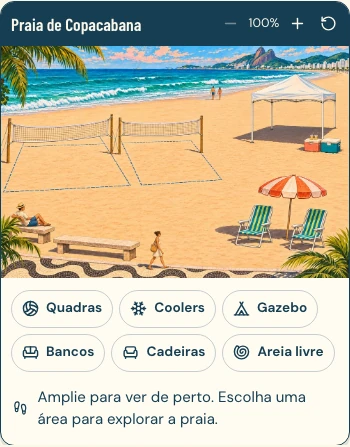
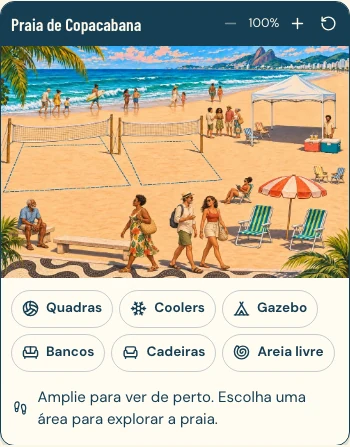
Populate the Copacabana sticker playground
Add beachgoers and folding chairs, correct the seated pose and foreground scale, and depict a wider range of ages, skin tones, hair textures, and builds.

Move suggested sticker spots away from the new artwork while preserving saved placements. Refresh the desktop and mobile screenshots.

diff --git a/lib/beach.ts b/lib/beach.ts
@@ -59,14 +59,14 @@ export const zones = {
     regions: [
       path([1109, 400], [1195, 349], [1474, 356], [1418, 431], [1108, 438]),
     ],
-    anchors: path([1160, 403], [1251, 383], [1354, 376], [1304, 425]),
+    anchors: path([1204, 432], [1251, 383], [1354, 376], [1304, 425]),
   },
   torcida: {
     name: "Bancos",
     line: "Vale gritar ponto até quando a bola cai fora!",
     width: 0.083,
     regions: [path([228, 832], [613, 856], [601, 949], [229, 919])],
-    anchors: path([413, 856], [544, 868], [295, 850]),
+    anchors: path([413, 856], [504, 866], [295, 850]),
   },
   cadeiras: {
     name: "Cadeiras",
@@ -83,7 +83,7 @@ export const zones = {
     line: "Escolha um cantinho na areia.",
     width: 0.073,
     regions: [],
-    anchors: path([782, 743], [653, 683], [886, 835], [488, 720], [277, 687]),
+    anchors: path([740, 681], [653, 683], [360, 766], [488, 720], [277, 687]),
   },
 };
 export type ZoneId = keyof typeof zones;

diff --git a/components/beach/scene-viewport.tsx b/components/beach/scene-viewport.tsx
@@ -218,7 +218,7 @@ export function SceneViewport({
               draggable={false}
               onLoad={() => setFailed(false)}
               onError={() => setFailed(true)}
-              alt="Praia de Copacabana com duas quadras à esquerda, gazebo branco e coolers à direita. Há banhistas à beira-mar, uma pessoa no banco e outra no calçadão."
+              alt="Na praia de Copacabana, famílias passeiam à beira-mar. Amigos conversam entre as duas quadras e o gazebo branco com coolers. Há cadeiras de praia à direita, bancos à esquerda e pedestres no calçadão."
             />
           </picture>
           {failed && (

diff --git a/docs/art/copacabana.md b/docs/art/copacabana.md
@@ -1,8 +1,24 @@
 # Ilustração de Copacabana
 
-O [original em PNG](copacabana.png) registra a festa cheia. A edição atual foi feita no ImageGen integrado a partir da versão com a praia vazia. O [mapa de 1536 × 1024](../../public/beach/copacabana.webp) e a [versão para celular](../../public/beach/copacabana-small.webp) usam a mesma pintura. Os quatro banhistas e passantes fazem parte do fundo.
+O [original em PNG](copacabana.png) registra a primeira versão da festa. O [mapa de 1536 × 1024](../../public/beach/copacabana.webp) e a [versão para celular](../../public/beach/copacabana-small.webp) usam a mesma pintura. O ImageGen integrado acrescentou pessoas e cinco cadeiras à versão com quatro pessoas e duas cadeiras. A leitora ficou na areia ao lado da quadra direita para liberar os pontos sugeridos em frente aos coolers. A revisão final acertou a postura do homem no banco menor, ampliou os três pedestres no primeiro plano e variou os tons de pele, as idades, os cabelos e os biotipos.
 
 ## Prompt da edição atual
+
+Edit this exact 1536 x 1024 full-bleed Copacabana travel-poster painting as a finished background in a sticker playground. The main art direction is convincing foreground scale, believable seated anatomy and a more varied Brazilian beach crowd. Use the supplied clean painting only. No marks, annotations or labels.
+
+1. REPLACE the man reclining sideways on the short lower-left stone bench. Paint a silver-haired older man with rich brown skin in a soft blue short-sleeved shirt, sitting upright, three-quarter view facing into the scene. He sits comfortably on the FRONT EDGE with both knees bent, both lower legs hanging naturally towards the ground and sandals planted on sand, and both forearms visibly in FRONT resting on his thighs. Hands anatomically clear. Neither arm is behind him. The long bench next to him is empty.
+2. The bottom three pedestrians now look like miniatures compared to the two nearby folding chairs. Redraw the pedestrians considerably TALLER at their existing ground level. Establish a convincing foreground trio of normal-sized adults. On this 1536 × 1024 canvas, an adult pedestrian with soles around y=985 should stand about 280–305 pixels tall with their crown around y=690–705. Currently only 165px tall. These people are closer to the viewer than the chairs. A folding chair back reaches roughly the walker's waist in physical height. Vary heights a little, natural profile steps, feet grounded on mosaic, clear shadows cast left, same daylight. Keep the walkers in the space between the empty long bench and the striped seats. Put one walking left near x=665 and two casually chatting/walking together near x=875–975, bags and ankles separate, slight depth stagger, whole silhouettes inside frame. Leave breathing room between groups. Keep the ORIGINAL EMPTY striped chairs and umbrella registered where they are so stickers fit the seats. Bodies can obscure a small patch of sand near the promenade but no important landmark.
+3. Make people throughout the gathering visibly distinct in skin tone, age, body shape, hair texture, and clothing; depict everyday Rio life with individuality. Examples: a dark-skinned woman with cropped natural curls and a fuller build on the promenade, a lean grey-haired walker with sun hat alongside a young adult with wavy hair; at the gazebo a mix of deep brown, light and olive skin, curly and straight hair, slim and broad builds and casual postures; varied families, children and older adults at the water's edge. Change their silhouettes and gestures, do not just recolor matching bodies. Keep existing people count, loose group locations, smaller distant sizes and the seated reader by the right court. Elegant confident drawn hands and feet, cohesive gouache, afternoon contact shadows, nuanced warm palette.
+
+The two court interiors, space beneath the white canopy and in front of coolers, long bench and both original foreground seats remain empty. Keep camera and landscape perfectly registered to reference, including the nets, all seven chairs, umbrella, white tent, coolers, mosaic, coastline and the full 3:2 frame. No UI, words, lines or circles. Return finished artwork.
+
+## Edição da praia com mais pessoas e cadeiras
+
+Precise object edit. Add background guests and beach chairs to this exact landscape illustration of Copacabana used as a 1536 × 1024 sticker placement board. Retain the full original 3:2 frame and identical geometry. The positions of all original elements matter to a game. Keep the current four beachgoers, courts, chairs, bench, canopy and objects in exactly their original positions. Match their illustration style: afternoon gouache travel-poster art, shadows to left, warm reflected light, delicate ink contours. Print detail at full resolution.
+
+Add about 14 new SMALL naturally posed people in distinct groups, with warm skin tones of different hues and muted summery clothes. Main activity in the middle distance. Tiny beachgoers watching waves and walking on the wet sand in 3 separated clusters across the left and middle shoreline (some in profile, or child with parent, others chatting). One small cluster socializing in the gap between the RIGHT net post and LEFT edge of the WHITE tent, one guest behind the coolers with face visible to the right of the canopy, one beach guest relaxing in a new folding chair off the playing area, two casual walkers near the far left end or right end of the promenade in foreground. Asymmetric grouping and varied silhouettes. Keep realistic scale relative to existing people, whole figures in frame and situated on the ground. Add a total of four additional cheerful, small folding beach chairs in two gathering spots: a couple near the OUTSIDE LEFT side of the gazebo, and another pair at the far RIGHT of the seating area between the coolers and parasol. Angle chairs towards each other. Preserve both ORIGINAL large foreground chairs, their seats remain open. The two volleyball playing surfaces, tent interior, sand in FRONT of ice chests, the entire LONG bench, and broad lower center sand are reserved for guest stickers, leave them empty. Keep landmarks, mountain backdrop, scene framing, sea, wave mosaic, corner palms, perspective and scale. No extra structures, towels, lettering, borders, icons or game UI. Finished polished artwork only.
+
+## Edição do gazebo branco e dos primeiros banhistas
 
 Edit this exact 3:2 Copacabana playground painting. Keep camera, full-bleed framing, original landmark locations and scale of both nets, benches, striped chairs/parasol, corner palms, wave mosaic, clouds and coastline. Keep warm afternoon screen-printed travel-poster illustration. Replace the heavy timber striped gazebo in the upper right with a modest white square pop-up event canopy, plain white shallow peaked fabric roof (visible pale blue/cream fabric folds), four slender white metal legs, no flowers or bunting; fit it within the old footprint, a little smaller, leave clear shaded interior for guests. Make a compact, immediately recognizable refreshments nook just outside the canopy on its right/front flank: two picnic ice chests in soft coral and deep turquoise with ivory lids, handles and latches, a tiny drinks detail if useful. Keep open sand for several guests beside and in front of them, separated from the courts and chairs. Add just four quiet human figures, painted directly into this setting with soft outlines and shadows: two tiny distant waders/walkers on the sand beside the surf, one relaxed seated beachgoer on the far left small bench (keep the long bench empty), one subdued walker on the bottom wave promenade near its left or center edge. They must be scaled modestly, naturally in perspective, secondary to guest stickers; keep their whole figures visible. Keep existing usable open spaces, both volleyball courts, both striped chairs, canopy interior and refreshments nook empty of people. Same reference style, no sticker borders, text, labels, UI, or extra objects. Return only full finished landscape artwork, 1536x1024.
 

diff --git a/docs/PRAIA.md b/docs/PRAIA.md
@@ -6,8 +6,8 @@ A seção **Expectativas** abre um mapa de Copacabana com seis áreas exploráve
 
 | Arquivo | Uso | Dimensões | Tamanho |
 | --- | --- | --- | --- |
-| [Copacabana](../public/beach/copacabana.webp) | Mapa detalhado e zoom | 1536 × 1024 | 381 KiB |
-| [Copacabana no celular](../public/beach/copacabana-small.webp) | Primeira vista em telas de até 700 px | 1000 × 667 | 185 KiB |
+| [Copacabana](../public/beach/copacabana.webp) | Mapa detalhado e zoom | 1536 × 1024 | 383 KiB |
+| [Copacabana no celular](../public/beach/copacabana-small.webp) | Primeira vista em telas de até 700 px | 1000 × 667 | 174 KiB |
 | [12 figurinhas](../public/beach/stickers/) | Álbum, convidados e rascunho | 256 × 256 cada | 305 KiB no total |
 
 A ilustração e as figurinhas foram produzidas para o convite com o ImageGen integrado. O original do mapa tem 1536 px de largura, abaixo dos 3000 px sugeridos no brief. Os PNGs de origem ficam fora do diretório público. O navegador carrega o mapa sob demanda e o álbum tem um pacote JavaScript separado. A caixa da cena reserva espaço antes de a imagem chegar. [Arte e prompt do mapa](art/copacabana.md) · [Inventário, folha original e prompt das figurinhas](art/stickers.md)
@@ -16,7 +16,7 @@ A ilustração e as figurinhas foram produzidas para o convite com o ImageGen in
 
 A arte, as áreas de interação e as figurinhas compartilham uma superfície de proporção 3:2. A vista inicial mostra o mapa inteiro no celular. Escolher uma área ou começar a posicionar uma figurinha amplia o mapa em telas estreitas. Com zoom, é possível deslizar a praia ou usar o botão de centralizar. Apenas o arraste iniciado sobre a própria figurinha captura o dedo.
 
-Os polígonos e os pontos sugeridos foram traçados sobre a ilustração de 1536 × 1024 e convertidos em frações. As duas quadras têm seis posições sugeridas ao todo. Há quatro lugares à sombra do gazebo branco, quatro ao redor dos coolers, três no banco comprido e um em cada cadeira. O banco menor já tem um banhista pintado. O atalho dá preferência a um ponto desocupado. No arraste, um pequeno anel aparece junto a um ponto disponível e a figurinha se acomoda ali ao soltar. Em areia livre, ela fica onde foi solta. O mesmo editor aceita toque e setas do teclado, com Shift para um passo maior. Apenas **Guardar lugar** grava a alteração. [Geometria e catálogo](../lib/beach.ts)
+Os polígonos e os pontos sugeridos foram traçados sobre a ilustração de 1536 × 1024 e convertidos em frações. As duas quadras têm seis posições sugeridas ao todo. Há quatro lugares à sombra do gazebo branco, quatro ao redor dos coolers, três no banco comprido e um em cada uma das duas cadeiras sob o guarda-sol. O banco menor já tem um banhista pintado. O atalho dá preferência a um ponto desocupado. No arraste, um pequeno anel aparece junto a um ponto disponível e a figurinha se acomoda ali ao soltar. Em areia livre, ela fica onde foi solta. O mesmo editor aceita toque e setas do teclado, com Shift para um passo maior. Apenas **Guardar lugar** grava a alteração. [Geometria e catálogo](../lib/beach.ts)
 
 As posições de interação usam a borda inferior visível de cada desenho. O aplicativo converte esse ponto no centro do quadrado antes de salvar. Na leitura, faz a conversão inversa com a largura definida pela área e a margem transparente da figurinha. Assim, os centros normalizados e os seis identificadores de área já gravados continuam válidos, sem migração. O ID histórico `torcida` identifica os bancos e `beira-mar` identifica a areia livre. Os limites da areia se aplicam ao reposicionar.
 
